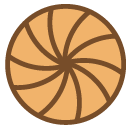
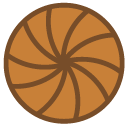
Attempt for Customize Skin setting skins and other minor fixes

diff --git a/core/src/com/lpoo/game/view/screens/CustomizeMenuScreen.java b/core/src/com/lpoo/game/view/screens/CustomizeMenuScreen.java
@@ -12,6 +12,7 @@ import com.badlogic.gdx.scenes.scene2d.ui.TextButton;
 import com.badlogic.gdx.scenes.scene2d.utils.ClickListener;
 import com.badlogic.gdx.scenes.scene2d.utils.TextureRegionDrawable;
 import com.lpoo.game.Spheral;
+import com.lpoo.game.view.entities.BallView;
 
 import java.util.ArrayList;
 
@@ -34,7 +35,7 @@ public class CustomizeMenuScreen extends MenuScreen {
     /**
      * Index on the array of Skins of the currently active skin1.
      */
-    private int current_skin = 0;
+    private static int current_skin = 0;
 
     //Layout Macros
 
@@ -102,7 +103,6 @@ public class CustomizeMenuScreen extends MenuScreen {
         for (int i=0; i < game.getNumSkins(); ++i)
             table.add(skinLabels.get(i)).fill().width(BUTTON_SIZE).center();
 
-        current_skin = game.getCurrentSkin();
         initializeCurrentSkin();
     }
 
@@ -125,7 +125,9 @@ public class CustomizeMenuScreen extends MenuScreen {
         skinLabels.get(current_skin).setVisible(false);
         skinLabels.get(j).setVisible(true);
         current_skin = j;
-        game.setCurrentSkin(current_skin);
+
+        BallView ball_appearance = null;
+        ball_appearance.setCurrentSkin(current_skin);
     }
 
     /**

diff --git a/core/test/com/lpoo/game/test/collisionObjectsTest.java b/core/test/com/lpoo/game/test/collisionObjectsTest.java
@@ -1,0 +1,34 @@
+package com.lpoo.game.test;
+
+import com.lpoo.game.model.GameModel;
+
+import org.junit.Test;
+
+import static com.lpoo.game.model.GameModel.ModelState.LIVE;
+import static org.junit.Assert.*;
+
+/**
+ * Created by Edgar on 05/06/2017.
+ */
+
+public class collisionObjectsTest extends GameTest {
+
+    GameTester tester = new GameTester("maps/testmap6.tmx");
+
+    @Test
+    public void collisionBoxTest() {
+
+        //Testing Collision with Boxes
+        tester.rotateLeftDuringTime(0.5f);
+        tester.ballJump();
+        assertEquals(LIVE, tester.noMotionDuringTime(2));
+    }
+
+    @Test
+    public void collisionPlatformTest() {
+        //Testing Collision with Boxes
+        tester.rotateRightDuringTime(0.5f);
+        tester.ballJump();
+        assertEquals(LIVE, tester.noMotionDuringTime(2));
+    }
+}

diff --git a/core/test/com/lpoo/game/test/gameLogicTest.java b/core/test/com/lpoo/game/test/gameLogicTest.java
@@ -104,18 +104,18 @@ public class gameLogicTest extends GameTest{
     {
         //Starting ball motion
         tester.rotateRightDuringTime(1);
-        float xPositon = tester.getBallXPosition();
+        float xPosition = tester.getBallXPosition();
 
         //Pause Game, even if called, ball wont move
         tester.pauseGame();
 
         tester.noMotionDuringTime(3);
-        assertEquals(xPositon, tester.getBallXPosition(), deltaError);
+        assertEquals(xPosition, tester.getBallXPosition(), deltaError);
 
         //Game unpaused, ball will move
         tester.pauseGame();
         tester.noMotionDuringTime(3);
 
-        assertNotEquals(xPositon, tester.getBallXPosition(), deltaError);
+        assertNotEquals(xPosition, tester.getBallXPosition(), deltaError);
     }
 }

diff --git a/core/src/com/lpoo/game/view/entities/BallView.java b/core/src/com/lpoo/game/view/entities/BallView.java
@@ -10,7 +10,9 @@ import java.util.Random;
 /**
  * Created by andre on 10/05/2017.
  */
-class BallView extends EntityView {
+public class BallView extends EntityView {
+
+    private static int current_skin_ID = 0;
 
     BallView(Spheral game) {
         super(game);
@@ -18,7 +20,11 @@ class BallView extends EntityView {
 
     @Override
     protected Sprite createSprite(Spheral game) {
-        Texture tex = game.getAssetManager().get("skins/skin0" + game.getCurrentSkin() + ".png");
+        Texture tex = game.getAssetManager().get("skins/skin0" + current_skin_ID + ".png");
         return new Sprite(new TextureRegion(tex, tex.getWidth(), tex.getHeight()));
+    }
+
+    public static void setCurrentSkin(int skin_ID) {
+        current_skin_ID = skin_ID;
     }
 }

diff --git a/core/src/com/lpoo/game/Spheral.java b/core/src/com/lpoo/game/Spheral.java
@@ -27,8 +27,6 @@ public class Spheral extends Game {
 
     private static final int NUMBER_OF_SKINS = 6;
 
-    private int currentSkin_ID = 0;
-
     private static final Map<Integer, String> gameMaps = new HashMap<Integer, String>();
 
     private final GameServices gameServices;
@@ -120,10 +118,6 @@ public class Spheral extends Game {
     public int getNumSkins() {
         return NUMBER_OF_SKINS;
     }
-
-    public int getCurrentSkin() { return currentSkin_ID; }
-
-    public void setCurrentSkin(int skin_id) { currentSkin_ID = skin_id; }
 
     @Override
     public void resize(int width, int height) {
